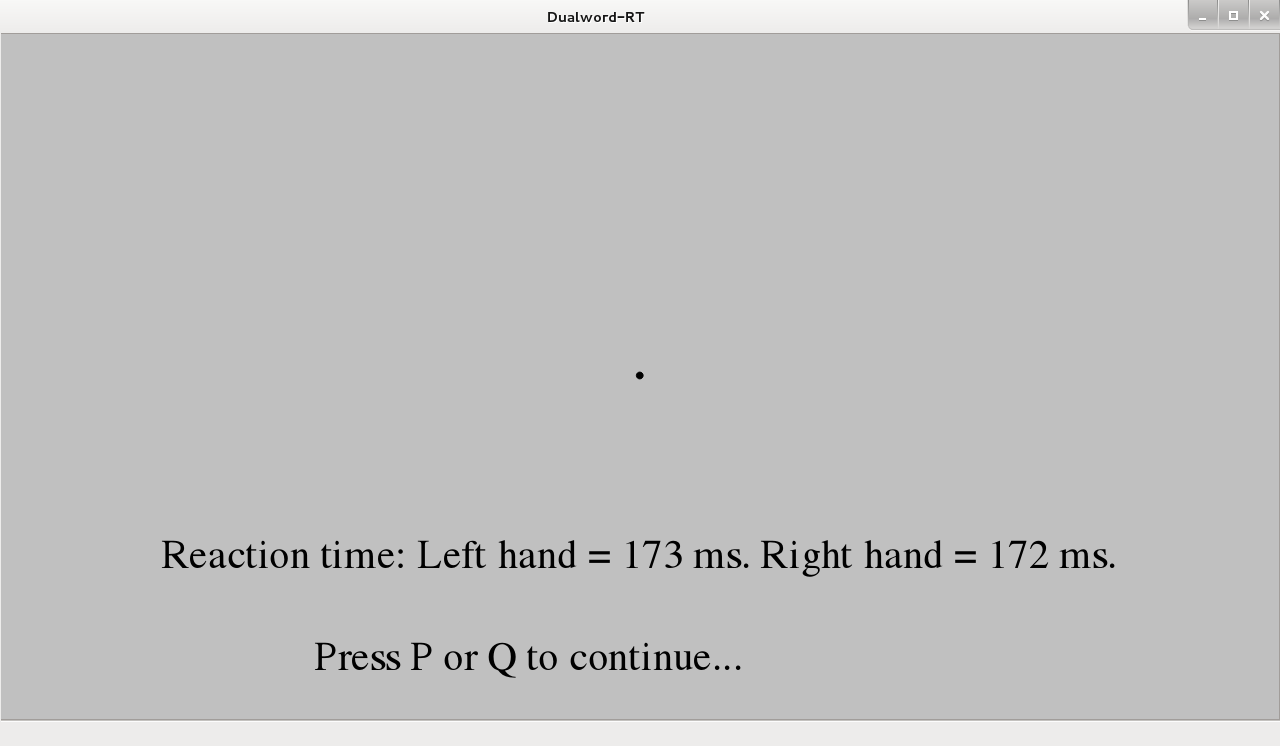
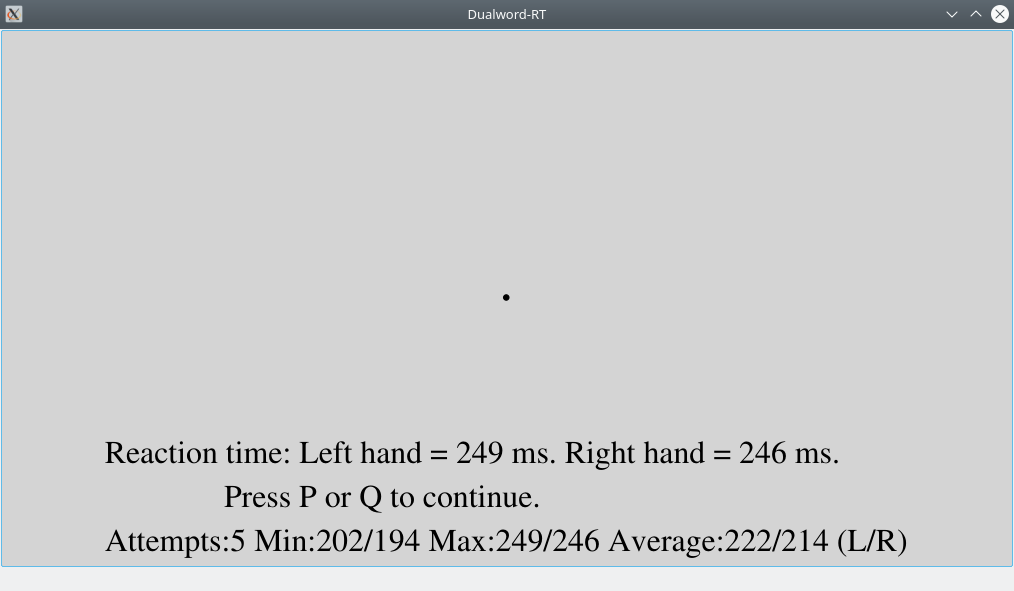
statistics

Changed region(s): [[0.0, 0.8223, 1.0, 0.9746], [0.0, 0.0, 1.0, 0.0609], [0.0917, 0.7005, 0.8866, 0.7919]]

diff --git a/src/gui/MainWindow.cpp b/src/gui/MainWindow.cpp
@@ -87,6 +87,7 @@ void MainWindow::keyPressEvent(QKeyEvent *event) {
 	}else if (state == State::notready){
 		stateNotReady();
 	}
+    QMainWindow::keyPressEvent(event);
 }
 
 void MainWindow::stateNew(){
@@ -99,9 +100,10 @@ void MainWindow::stateNew(){
 void MainWindow::stateWait(){
 	state = State::notready;
 	scene.printMsg(tr("Press 2 buttons (P and Q) when you see a yellow circle..."));
-	timer = new QTimer(this);
+    timer.reset(new QTimer());
+    timer->setTimerType(Qt::PreciseTimer);
 	timer->setSingleShot(true);
-	connect(timer, SIGNAL(timeout()), this, SLOT(stateVisual()));
+    connect(timer.get(), SIGNAL(timeout()), this, SLOT(stateVisual()));
 	pause = rand() * 1000;
 	timer->start(pause);
 }
@@ -116,9 +118,26 @@ void MainWindow::stateDone(){
 	tL.reset();
 	tR.reset();
 	state = State::new1;
-	scene.printMsg("Reaction time: Left hand = " + QString::number(tL.elapsedMilli()) + " ms. "
-			"Right hand = " + QString::number(tR.elapsedMilli()) + " ms.\n\n"
-			 "               Press P or Q to continue...");
+    data.append(dat{tL.elapsedMilli(), tR.elapsedMilli()});
+    int minl=RT_MAX, minr=RT_MAX, maxl=0, maxr=0, avrgl=0, avrgr=0;
+    foreach (const auto& d, data) {
+        if(d.left < minl) minl = d.left;
+        if(d.right < minr) minr = d.right;
+        if(d.left > maxl) maxl = d.left;
+        if(d.right > maxr) maxr = d.right;
+        avrgl += d.left;
+        avrgr += d.right;
+    }
+
+    QString msg;
+    msg.append("Reaction time: Left hand = " + QString::number(tL.elapsedMilli()) + " ms. ");
+    msg.append("Right hand = " + QString::number(tR.elapsedMilli()) + " ms.\n");
+    msg.append("               Press P or Q to continue.\n");
+    msg.append("Attempts:" + QString::number(data.size()));
+    msg.append(" Min:"+QString::number(minl)+"/"+QString::number(minr));
+    msg.append(" Max:"+QString::number(maxl)+"/"+QString::number(maxr));
+    msg.append(" Average:"+QString::number(avrgl/data.size())+"/"+QString::number(avrgr/data.size()) + " (L/R)");
+    scene.printMsg(msg);
 }
 
 void MainWindow::stateNotReady(){

diff --git a/src/gui/MainWindow.h b/src/gui/MainWindow.h
@@ -29,6 +29,8 @@
 
 using namespace std;
 
+struct dat;
+
 class MainWindow : public QMainWindow {
   Q_OBJECT
 
@@ -61,12 +63,13 @@ private:
 	View glview;
     State state;
     Time tL, tR;
-    QTimer *timer;
+    QScopedPointer<QTimer> timer;
 	QMenu  *menu;
 	QAction *toggle, *info, *about;
 	int pause;
 	Rnd rand;
 	QString msg;
+    QVector<dat> data;
 
 };
 

diff --git a/src/global.h b/src/global.h
@@ -25,6 +25,10 @@ static const int RT_MAX = 1000; // upper limit (ms)
 static const int RT_DMIN = 1; // delay lower limit (ms)
 static const int RT_DMAX = 5; // delay upper limit (ms)
 
+struct dat {
+    int left;
+    int right;
 
+};
 
 #endif /* GLOBAL_H_ */
